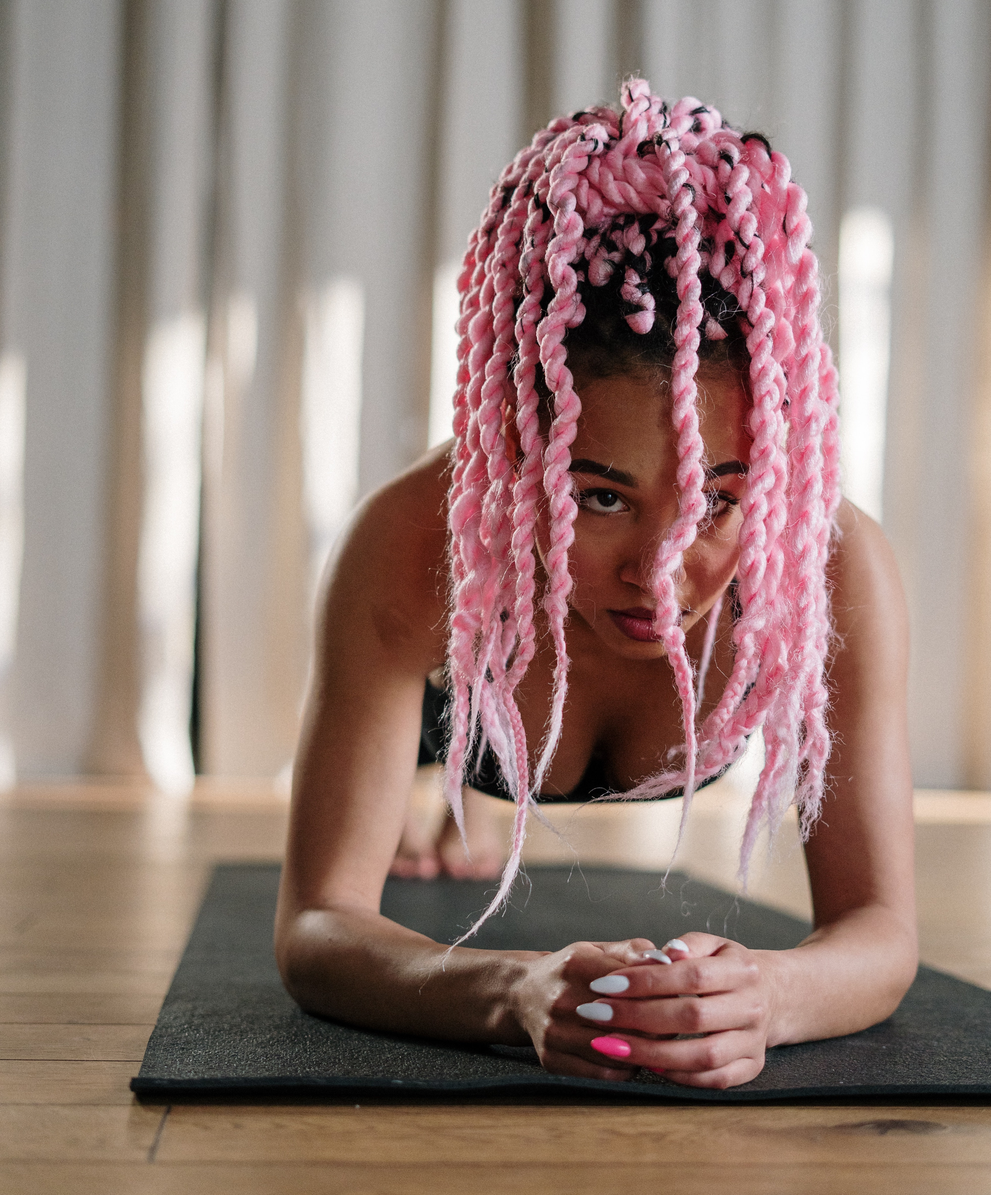
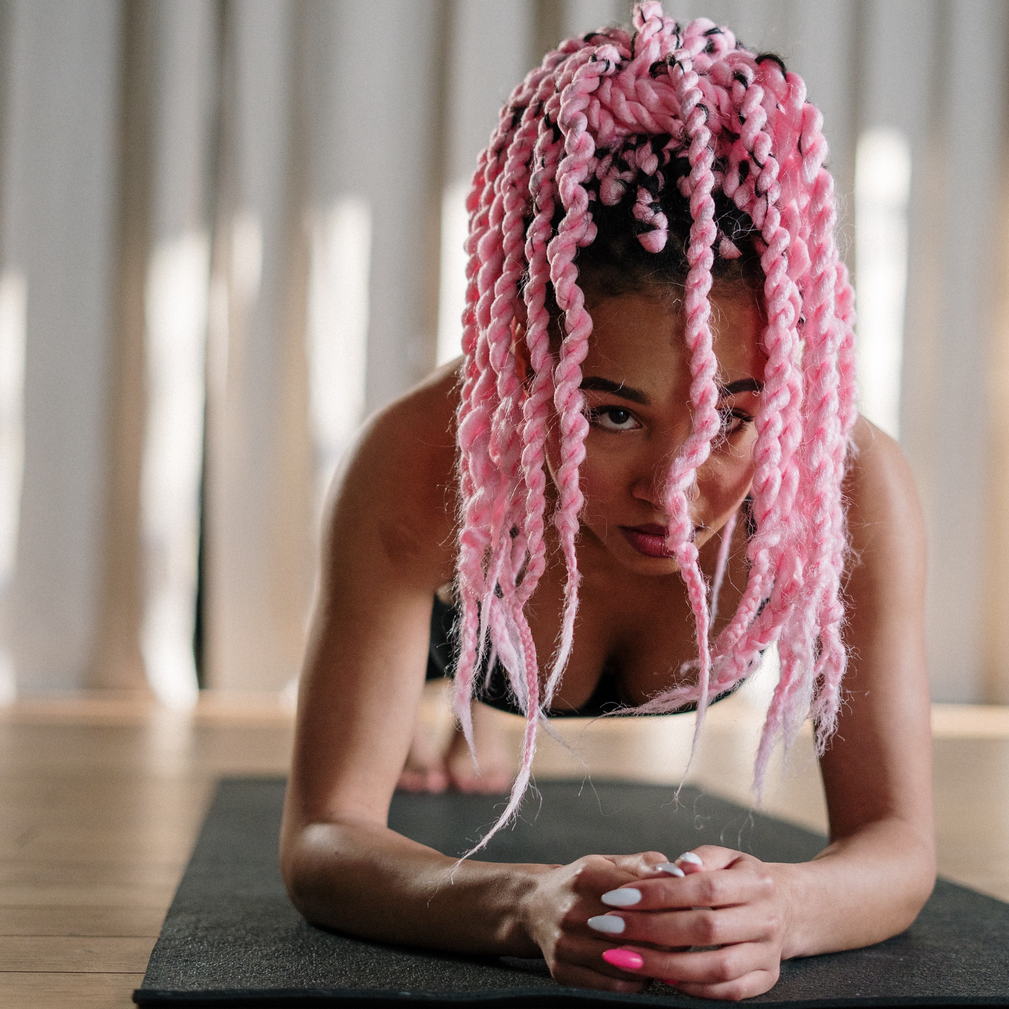
added new photos to classes section, drop shadow under navbar

diff --git a/index.html b/index.html
@@ -72,7 +72,7 @@
       </div>
       <!-- class #2 div -->
       <div class="class-one">
-        <img class="thumbnails" src="images/pexels-thirdman.jpg" alt="">
+        <img class="thumbnails" src="images/seatedyoga.jpg" alt="">
         <h3 class="class-name">Vinyasa Flow</h3>
         <p>
           This class is a fast paced energy building experience
@@ -81,7 +81,7 @@
       </div>
       <!-- class #3 div -->
       <div class="class-one">
-        <img class="thumbnails" src="images/pexels-thirdman.jpg" alt="">
+        <img class="thumbnails" src="images/pexels-cottonbro.jpg" alt="">
         <h3 class="class-name">Vinyasa Flow</h3>
         <p>
           This class is a fast paced energy building experience
@@ -90,7 +90,7 @@
       </div>
       <!-- class #4 div -->
       <div class="class-one">
-        <img class="thumbnails" src="images/pexels-thirdman.jpg" alt="">
+        <img class="thumbnails" src="images/pexels-andrea-piacquadio.jpg" alt="">
         <h3 class="class-name">Vinyasa Flow</h3>
         <p>
           This class is a fast paced energy building experience

diff --git a/css/styles.css b/css/styles.css
@@ -71,6 +71,7 @@ header {
   align-items: center;
   background-color: #F5F2E7;
   gap: 16em;
+  box-shadow: 0 2px 4px -1px rgba(0,0,0,0.25);
 }
 
 span {

diff --git a/README.md b/README.md
@@ -1,9 +1,13 @@
 # flexboxlandingpage
 
+This project is a landing page for a yoga company, Warm Energy Yoga. The project showcases my use of various elements of web development including but not limited to: HTML5, CSS3, Flexbox Layout, and Web Design Principles.
 Photo Credits:
+
 Photo by cottonbro from Pexels
 https://www.pexels.com/photo/woman-in-white-tank-top-wearing-blue-knit-cap-4327133/
 Photo by EKATERINA BOLOVTSOVA from Pexels
 https://www.pexels.com/photo/a-woman-doing-a-yoga-ritual-on-a-yoga-mat-7113501/
-
+Photo by Thirdman from Pexels
 https://www.pexels.com/photo/a-woman-sitting-beside-an-indoor-plant-6958390/
+Photo by Andrea Piacquadio from Pexels
+https://www.pexels.com/photo/topless-man-in-black-denim-jeans-sitting-on-floor-doing-meditation-3965401/
